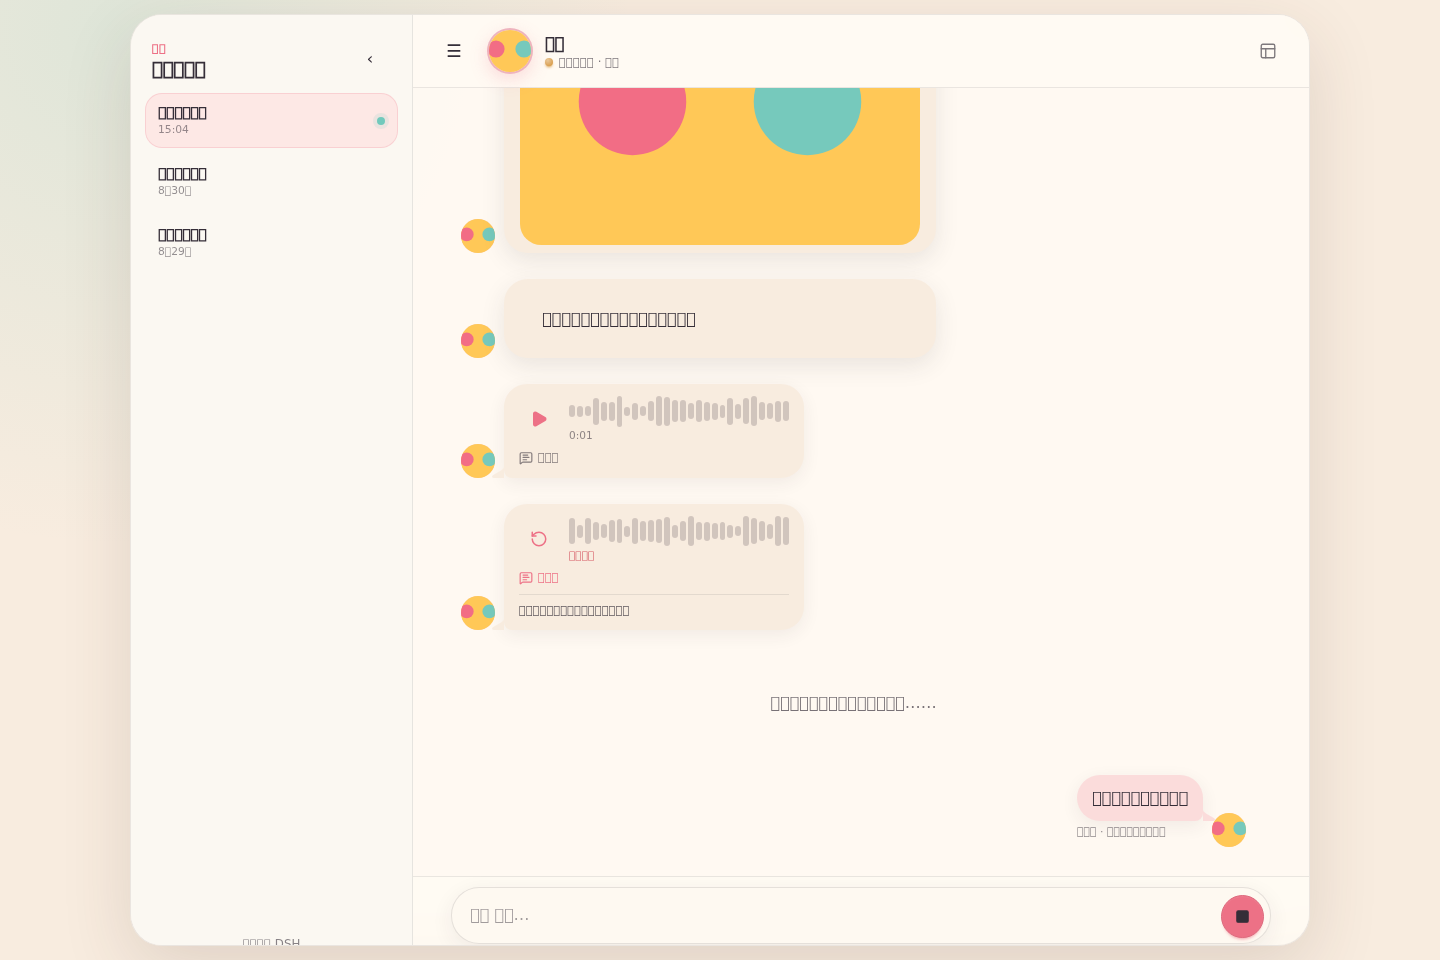
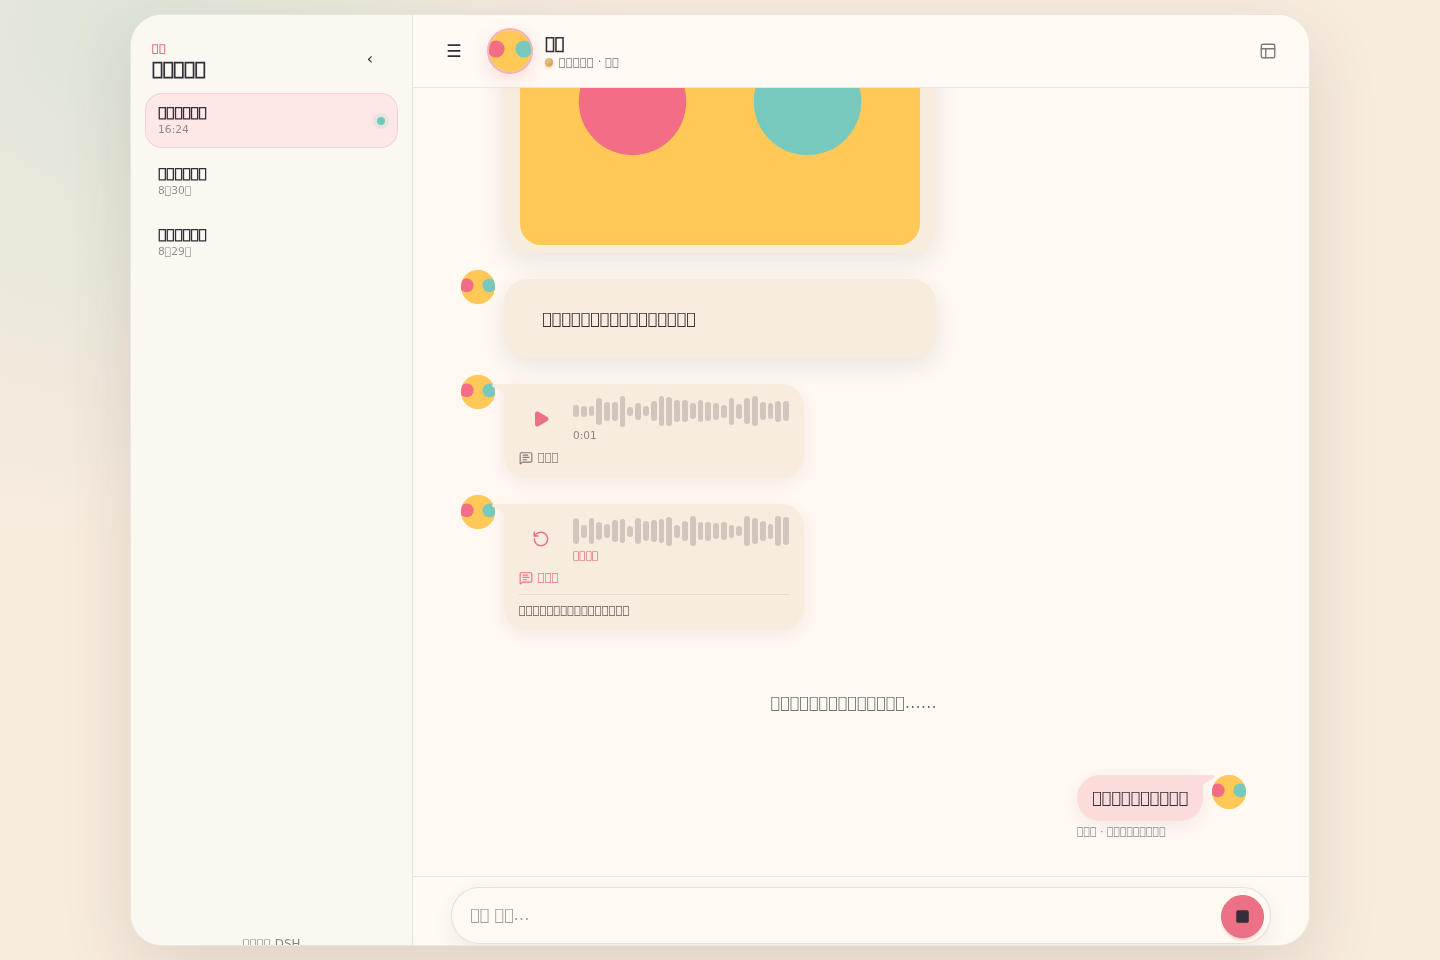
fix(companion): align voice playback and chat tails

diff --git a/src/client/theme.ts b/src/client/theme.ts
@@ -43,25 +43,27 @@ export const companionStyles = `
 #dsh-companion .companion-full-dsh:hover{opacity:1}
 #dsh-companion .companion-timeline{min-height:0;overflow-y:auto;overscroll-behavior:contain;scrollbar-gutter:stable;padding:28px clamp(16px,4vw,48px) 16px}
 #dsh-companion .companion-timeline:not(.timeline-ready){visibility:hidden}
-#dsh-companion .companion-row{display:grid;grid-template-columns:34px minmax(0,auto);align-items:end;justify-content:start;gap:9px;width:100%;margin:9px 0}
+#dsh-companion .companion-row{display:grid;grid-template-columns:34px minmax(0,auto);align-items:start;justify-content:start;gap:9px;width:100%;margin:9px 0}
 #dsh-companion .companion-row.outgoing{grid-template-columns:minmax(0,auto) 34px;justify-content:end}
 #dsh-companion .companion-row.outgoing .message-avatar{grid-column:2}
 #dsh-companion .companion-row.outgoing .companion-message-stack{grid-column:1;grid-row:1}
-#dsh-companion .message-avatar{width:34px;height:34px;font-size:.72rem}
+#dsh-companion .message-avatar{align-self:start;width:34px;height:34px;font-size:.72rem}
 #dsh-companion .companion-avatar-crop{display:grid;width:100%;height:100%;place-items:center;overflow:hidden}
 #dsh-companion .companion-avatar-crop img{display:block;width:100%;height:100%;object-fit:cover}
 #dsh-companion .companion-message-stack{max-width:min(76vw,680px)}
-#dsh-companion .companion-bubble{max-width:min(76vw,680px);padding:11px 15px;border-radius:23px 23px 23px 8px;background:var(--color-base-200);box-shadow:0 5px 18px color-mix(in srgb,var(--color-base-content) 7%,transparent);line-height:1.55;overflow-wrap:anywhere}
-#dsh-companion .outgoing .companion-bubble{border-radius:23px 23px 8px 23px;background:color-mix(in srgb,var(--color-primary) 22%,var(--color-base-100))}
+#dsh-companion .companion-bubble{max-width:min(76vw,680px);padding:11px 15px;border-radius:0 23px 23px 23px;background:var(--color-base-200);box-shadow:0 5px 18px color-mix(in srgb,var(--color-base-content) 7%,transparent);line-height:1.55;overflow-wrap:anywhere}
+#dsh-companion .outgoing .companion-bubble{border-radius:23px 0 23px 23px;background:color-mix(in srgb,var(--color-primary) 22%,var(--color-base-100))}
+#dsh-companion .incoming .companion-bubble::before{top:0;bottom:auto;transform:scaleY(-1)}
+#dsh-companion .outgoing .companion-bubble::before{top:0;bottom:auto;transform:rotateY(180deg) scaleY(-1)}
 #dsh-companion .companion-meta{margin-top:4px;opacity:.55;font-size:.68rem}
 #dsh-companion .companion-typing-bubble{display:flex;align-items:center;gap:9px;max-width:min(76vw,340px)}
 #dsh-companion .companion-waiting-copy{color:color-mix(in srgb,var(--color-base-content) 68%,transparent);font-size:.76rem;line-height:1.4;animation:companion-waiting-in .24s ease-out}
 #dsh-companion .companion-media{width:min(70vw,480px);overflow:hidden;border-radius:24px;background:var(--color-base-200);box-shadow:0 8px 24px color-mix(in srgb,var(--color-base-content) 10%,transparent)}
 #dsh-companion .companion-media-button{display:block;width:100%;padding:0;border:0;background:transparent;cursor:zoom-in}
 #dsh-companion .companion-media img{display:block;width:100%;max-height:520px;object-fit:cover}
-#dsh-companion .companion-voice{display:grid;grid-template-columns:40px minmax(0,1fr);align-items:center;gap:6px 10px;min-width:min(300px,70vw)}
+#dsh-companion .companion-voice{display:grid;grid-template-columns:44px minmax(0,1fr);align-items:center;gap:6px 10px;min-width:min(300px,70vw)}
 #dsh-companion .companion-audio{position:absolute;width:1px;height:1px;overflow:hidden;clip-path:inset(50%)}
-#dsh-companion .companion-voice-control{width:40px;height:40px;min-width:40px;min-height:40px;color:var(--color-primary)}
+#dsh-companion .companion-voice-control{width:44px;height:44px;min-width:44px;min-height:44px;color:var(--color-primary)}
 #dsh-companion .companion-voice-player{min-width:0}
 #dsh-companion .companion-voice-waveform{position:relative;display:flex;height:32px;align-items:center;gap:2px;min-width:150px;cursor:pointer}
 #dsh-companion .companion-voice-waveform>span{width:3px;height:var(--voice-bar);flex:1;border-radius:999px;background:color-mix(in srgb,var(--color-base-content) 20%,transparent);transition:background-color .12s ease}

diff --git a/src/media.ts b/src/media.ts
@@ -11,7 +11,32 @@ export interface TtsPassage {
 
 const OPEN_TAG = "[[tts:text]]";
 const CLOSE_TAG = "[[/tts:text]]";
-const FENCE_PATTERN = /```[\s\S]*?```|~~~[\s\S]*?~~~/gu;
+
+function fencedRanges(input: string): Array<[number, number]> {
+  const ranges: Array<[number, number]> = [];
+  const marker = /^[ \t]{0,3}(`{3,}|~{3,})([^\r\n]*)\r?$/gm;
+  let open: { character: string; length: number; start: number } | undefined;
+  let match: RegExpExecArray | null;
+  while ((match = marker.exec(input))) {
+    const token = match[1];
+    if (!token) continue;
+    const suffix = match[2] ?? "";
+    if (!open) {
+      open = { character: token[0]!, length: token.length, start: match.index };
+      continue;
+    }
+    if (open.character === token[0] && token.length >= open.length && /^[ \t]*$/.test(suffix)) {
+      ranges.push([open.start, marker.lastIndex]);
+      open = undefined;
+    }
+  }
+  if (open) ranges.push([open.start, input.length]);
+  return ranges;
+}
+
+function overlapsFence(start: number, end: number, ranges: Array<[number, number]>): boolean {
+  return ranges.some(([from, to]) => start < to && end > from);
+}
 
 /** Normalize the installed Kepos grammar's text payload without mutating chat text. */
 export function normalizeTtsText(value: string): string {
@@ -35,22 +60,23 @@ export function digestText(value: string): string {
  */
 export function parseTtsPassage(value: unknown, finalized: boolean): TtsPassage | undefined {
   if (!finalized || typeof value !== "string" || value.length === 0) return undefined;
-  const masked = value.replace(FENCE_PATTERN, (match) => " ".repeat(match.length));
-  const opens = [...masked.matchAll(/\[\[tts:text\]\]/gu)];
-  const closes = [...masked.matchAll(/\[\[\/tts:text\]\]/gu)];
-  if (opens.length !== 1 || closes.length !== 1) return undefined;
-  const start = opens[0]!.index!;
-  const closeStart = closes[0]!.index!;
-  if (closeStart <= start + OPEN_TAG.length) return undefined;
-  if (value.slice(start, closeStart).includes("```") || value.slice(start, closeStart).includes("~~~")) return undefined;
-  const raw = value.slice(start + OPEN_TAG.length, closeStart);
-  const text = normalizeTtsText(raw);
-  if (!text || Array.from(text).length > 240) return undefined;
-  // Any other tag-like marker in the payload would be surprising to the TTS
-  // backend and is treated as malformed rather than synthesized.
-  if (/\[\[\/?tts(?::[^\]]*)?\]\]/iu.test(text)) return undefined;
-  const end = closeStart + CLOSE_TAG.length;
-  return { text, start, end, digest: digestText(text) };
+  const fences = fencedRanges(value);
+  let cursor = 0;
+  while (cursor < value.length) {
+    const start = value.indexOf(OPEN_TAG, cursor);
+    if (start < 0) break;
+    const closeStart = value.indexOf(CLOSE_TAG, start + OPEN_TAG.length);
+    if (closeStart < 0) break;
+    const end = closeStart + CLOSE_TAG.length;
+    const raw = value.slice(start + OPEN_TAG.length, closeStart);
+    const text = normalizeTtsText(raw);
+    const valid = text && !raw.includes("[[") && !raw.includes("]]") && Array.from(text).length <= 240;
+    if (!overlapsFence(start, end, fences) && valid) {
+      return { text, start, end, digest: digestText(text) };
+    }
+    cursor = end;
+  }
+  return undefined;
 }
 
 export interface ImageRefLike {

diff --git a/tests/e2e/fixture.spec.ts b/tests/e2e/fixture.spec.ts
@@ -10,6 +10,8 @@ test("fixture has complete media states, accessible overlays, and no duplicate i
   await expect(voice.getByRole("region", { name: "语音播放器" })).toBeVisible();
   const playVoice = voice.getByRole("button", { name: "播放语音" });
   await expect(playVoice.locator("svg")).toHaveCount(1);
+  await expect(playVoice).toHaveCSS("width", "44px");
+  await expect(playVoice).toHaveCSS("height", "44px");
   await expect.poll(() => playVoice.evaluate((node) => getComputedStyle(node).backgroundColor)).toBe("rgba(0, 0, 0, 0)");
   await expect(voice.locator(".companion-voice-waveform")).toBeVisible();
   await expect(voice.getByRole("slider", { name: "语音进度" })).toBeAttached();
@@ -227,6 +229,36 @@ test("chat shell has rendered Markdown, viewport scrolling, sessions, rounded fo
   });
   expect(focusStyle.outlineColor).not.toBe("rgb(255, 255, 255)");
   expect(focusStyle.radius).toBeGreaterThanOrEqual(20);
+
+  const bubbles = await page.evaluate(() => {
+    const measure = (id: string, topCorner: "borderTopLeftRadius" | "borderTopRightRadius", bottomCorner: "borderBottomLeftRadius" | "borderBottomRightRadius") => {
+      const row = document.querySelector<HTMLElement>(`[data-testid="message-${id}"]`)!;
+      const avatar = row.querySelector<HTMLElement>(".message-avatar")!;
+      const bubble = row.querySelector<HTMLElement>(".companion-bubble")!;
+      const style = getComputedStyle(bubble);
+      const tail = getComputedStyle(bubble, "::before");
+      return {
+        avatarTop: avatar.getBoundingClientRect().top,
+        bubbleTop: bubble.getBoundingClientRect().top,
+        topCorner: Number.parseFloat(style[topCorner]),
+        bottomCorner: Number.parseFloat(style[bottomCorner]),
+        tailTop: tail.top,
+        tailBottom: tail.bottom,
+      };
+    };
+    return {
+      incoming: measure("history-1", "borderTopLeftRadius", "borderBottomLeftRadius"),
+      outgoing: measure("history-2", "borderTopRightRadius", "borderBottomRightRadius"),
+    };
+  });
+  expect(Math.abs(bubbles.incoming.avatarTop - bubbles.incoming.bubbleTop)).toBeLessThanOrEqual(1);
+  expect(Math.abs(bubbles.outgoing.avatarTop - bubbles.outgoing.bubbleTop)).toBeLessThanOrEqual(1);
+  expect(bubbles.incoming.topCorner).toBeLessThan(bubbles.incoming.bottomCorner);
+  expect(bubbles.outgoing.topCorner).toBeLessThan(bubbles.outgoing.bottomCorner);
+  expect(bubbles.incoming.tailTop).toBe("0px");
+  expect(Number.parseFloat(bubbles.incoming.tailBottom)).toBeGreaterThan(0);
+  expect(bubbles.outgoing.tailTop).toBe("0px");
+  expect(Number.parseFloat(bubbles.outgoing.tailBottom)).toBeGreaterThan(0);
 
   const avatar = page.getByRole("button", { name: "查看 Companion 关系资料" });
   const avatarBox = await avatar.boundingBox();

diff --git a/tests/media.test.ts b/tests/media.test.ts
@@ -3,11 +3,14 @@ import { imageGenProjectionId, parseTtsPassage, recognizeImageGenResult, ttsProj
 import { TtsPreparationCache, validateTtsPayload } from "../src/client/voice-cache.js";
 
 describe("companion media", () => {
-  it("parses one finalized bounded passage and ignores fenced code", () => {
+  it("matches the installed Kepos tag grammar for finalized passages", () => {
     const parsed = parseTtsPassage("正文 [[tts:text]] 你好，世界  [[/tts:text]]", true)!;
     expect(parsed.text).toBe("你好，世界");
     expect(parseTtsPassage("```[[tts:text]]假的[[/tts:text]]```", true)).toBeUndefined();
-    expect(parseTtsPassage("[[tts:text]]a[[/tts:text]] [[tts:text]]b[[/tts:text]]", true)).toBeUndefined();
+    expect(parseTtsPassage("[[tts:text]]a[[/tts:text]] [[tts:text]]b[[/tts:text]]", true)?.text).toBe("a");
+    expect(parseTtsPassage("[[tts:text]][[错误]][[/tts:text]] [[tts:text]]b[[/tts:text]]", true)?.text).toBe("b");
+    expect(parseTtsPassage("````md\n[[tts:text]]假的[[/tts:text]]\n```", true)).toBeUndefined();
+    expect(parseTtsPassage("[[tts:text]][[tts:text]]嵌套[[/tts:text]][[/tts:text]]", true)).toBeUndefined();
     expect(parseTtsPassage("[[tts:text]]未完成", true)).toBeUndefined();
     expect(parseTtsPassage("[[tts:text]]a[[/tts:text]]", false)).toBeUndefined();
   });
@@ -39,6 +42,22 @@ describe("Kepos TTS browser contract", () => {
     expect(() => validateTtsPayload({ mediaType: "audio/mpeg", url: "https://elsewhere.invalid/audio", bytes: 1 }, "http://localhost")).toThrow("audio-invalid");
     expect(() => validateTtsPayload({ mediaType: "audio/ogg", url: "/kepos-tts/audio/a", bytes: 1 })).toThrow("audio-invalid");
     expect(() => validateTtsPayload({ mediaType: "audio/mpeg", url: "/kepos-tts/audio/a", bytes: 0 })).toThrow("audio-invalid");
+  });
+
+  it("evicts a rejected preparation so a voice retry calls Kepos again", async () => {
+    const payload = { mediaType: "audio/mpeg", url: "/kepos-tts/audio/retry", bytes: 2401 };
+    let calls = 0;
+    const cache = new TtsPreparationCache();
+    const rpc = {
+      synthesize: async () => {
+        calls += 1;
+        if (calls === 1) throw new Error("temporary failure");
+        return payload;
+      },
+    };
+    await expect(cache.prepare("s1", "请再试一次", rpc)).rejects.toThrow("temporary failure");
+    await expect(cache.prepare("s1", "请再试一次", rpc)).resolves.toMatchObject({ url: payload.url });
+    expect(calls).toBe(2);
   });
 
 });

diff --git a/src/client/voice-cache.ts b/src/client/voice-cache.ts
@@ -7,7 +7,6 @@ export interface TtsRpc {
 export interface PreparedAudio {
   key: string;
   url: string;
-  duration?: number;
 }
 
 export interface TtsPayload {
@@ -42,7 +41,6 @@ export function validateTtsPayload(raw: unknown, origin?: string): { url: string
 interface Entry {
   promise: Promise<PreparedAudio>;
   value?: PreparedAudio;
-  settled: boolean;
 }
 
 /** Page-local preparation cache. Disposal intentionally does not cancel host synthesis. */
@@ -54,16 +52,15 @@ export class TtsPreparationCache {
     const key = `${sessionId}:${digestText(normalized)}`;
     const existing = this.entries.get(key);
     if (existing) return existing.promise;
-    const entry: Entry = { settled: false, promise: Promise.resolve(undefined as never) };
+    const entry: Entry = { promise: Promise.resolve(undefined as never) };
     entry.promise = rpc.synthesize(normalized, sessionId, signal).then((raw) => {
       const payload = validateTtsPayload(raw);
       const url = payload.url;
       const value = { key, url };
       entry.value = value;
-      entry.settled = true;
       return value;
     }).catch((error) => {
-      entry.settled = true;
+      if (this.entries.get(key) === entry) this.entries.delete(key);
       throw error;
     });
     this.entries.set(key, entry);
